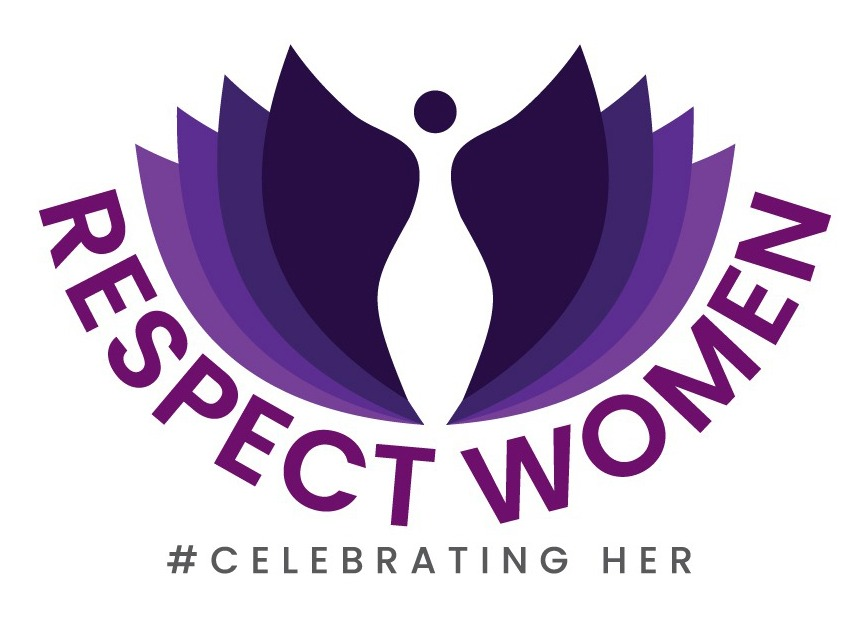
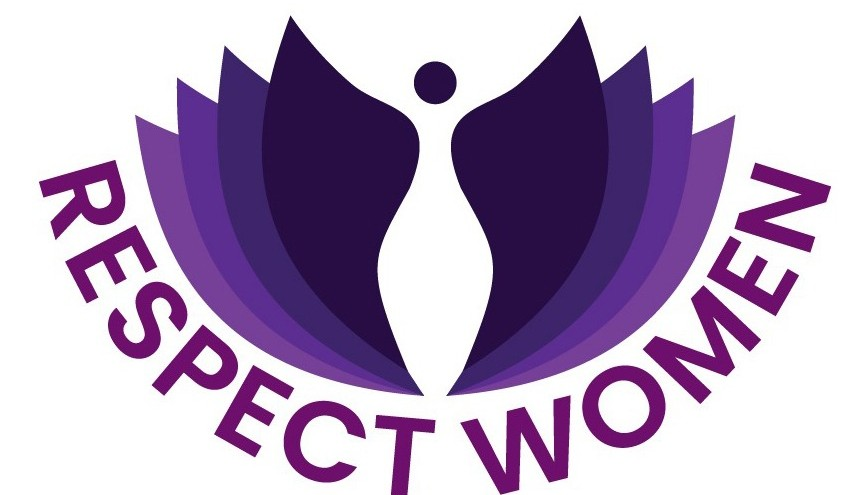
first commit

diff --git a/src/components/Navigation.tsx b/src/components/Navigation.tsx
@@ -141,13 +141,22 @@ const Navigation = () => {
       <div className="container mx-auto px-4">
         <div className="flex items-center justify-between h-20">
           {/* Logo */}
-          <Link to="/" className="flex items-center">
+          <Link
+            to="/"
+            className="flex flex-col items-center no-underline text-inherit"
+          >
             <img
               src={logo}
               alt="Respect Women Logo"
-              className="h-14 md:h-20 w-auto"
+              className="h-12 md:h-16 w-auto"
               data-aos="zoom-in"
             />
+            <span
+              className="mt-0.5 text-sm md:text-base font-semibold text-gray"
+              data-aos="fade-up"
+            >
+              # CELEBRATING HER
+            </span>
           </Link>
 
           {/* Desktop Menu */}
